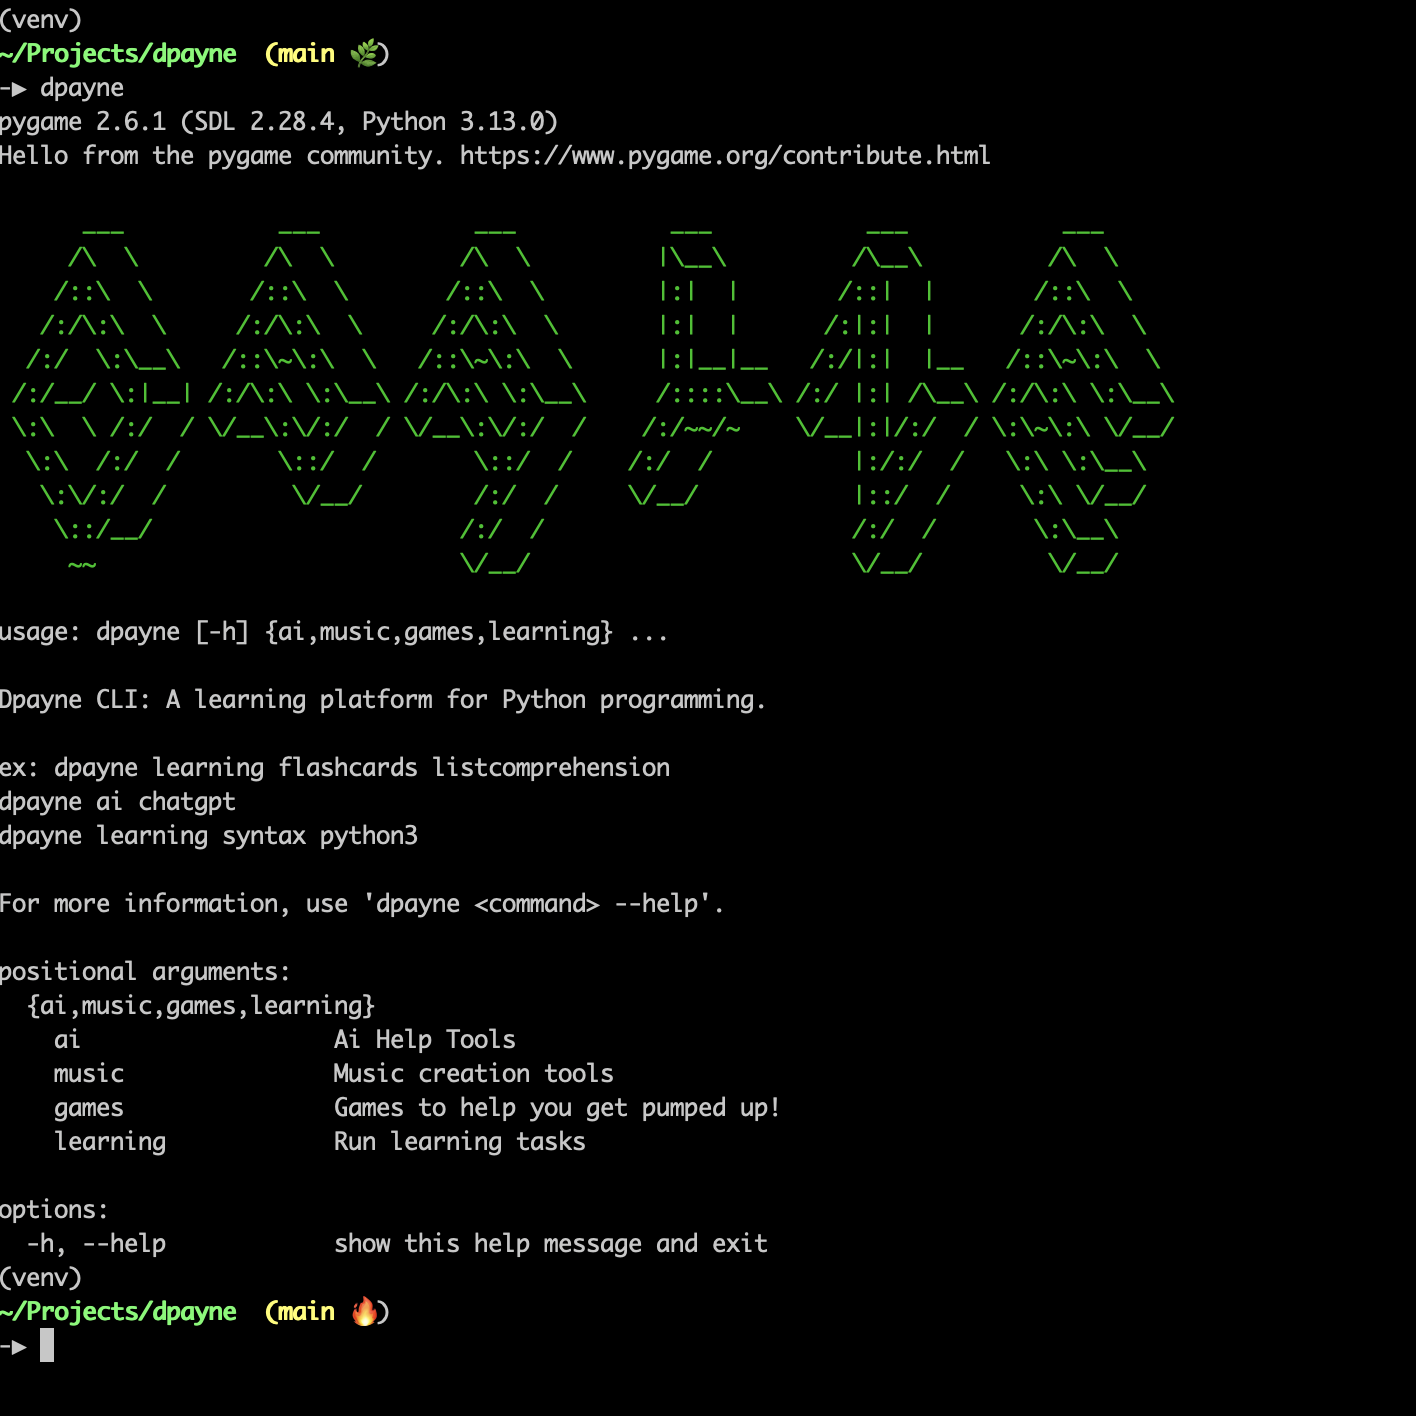
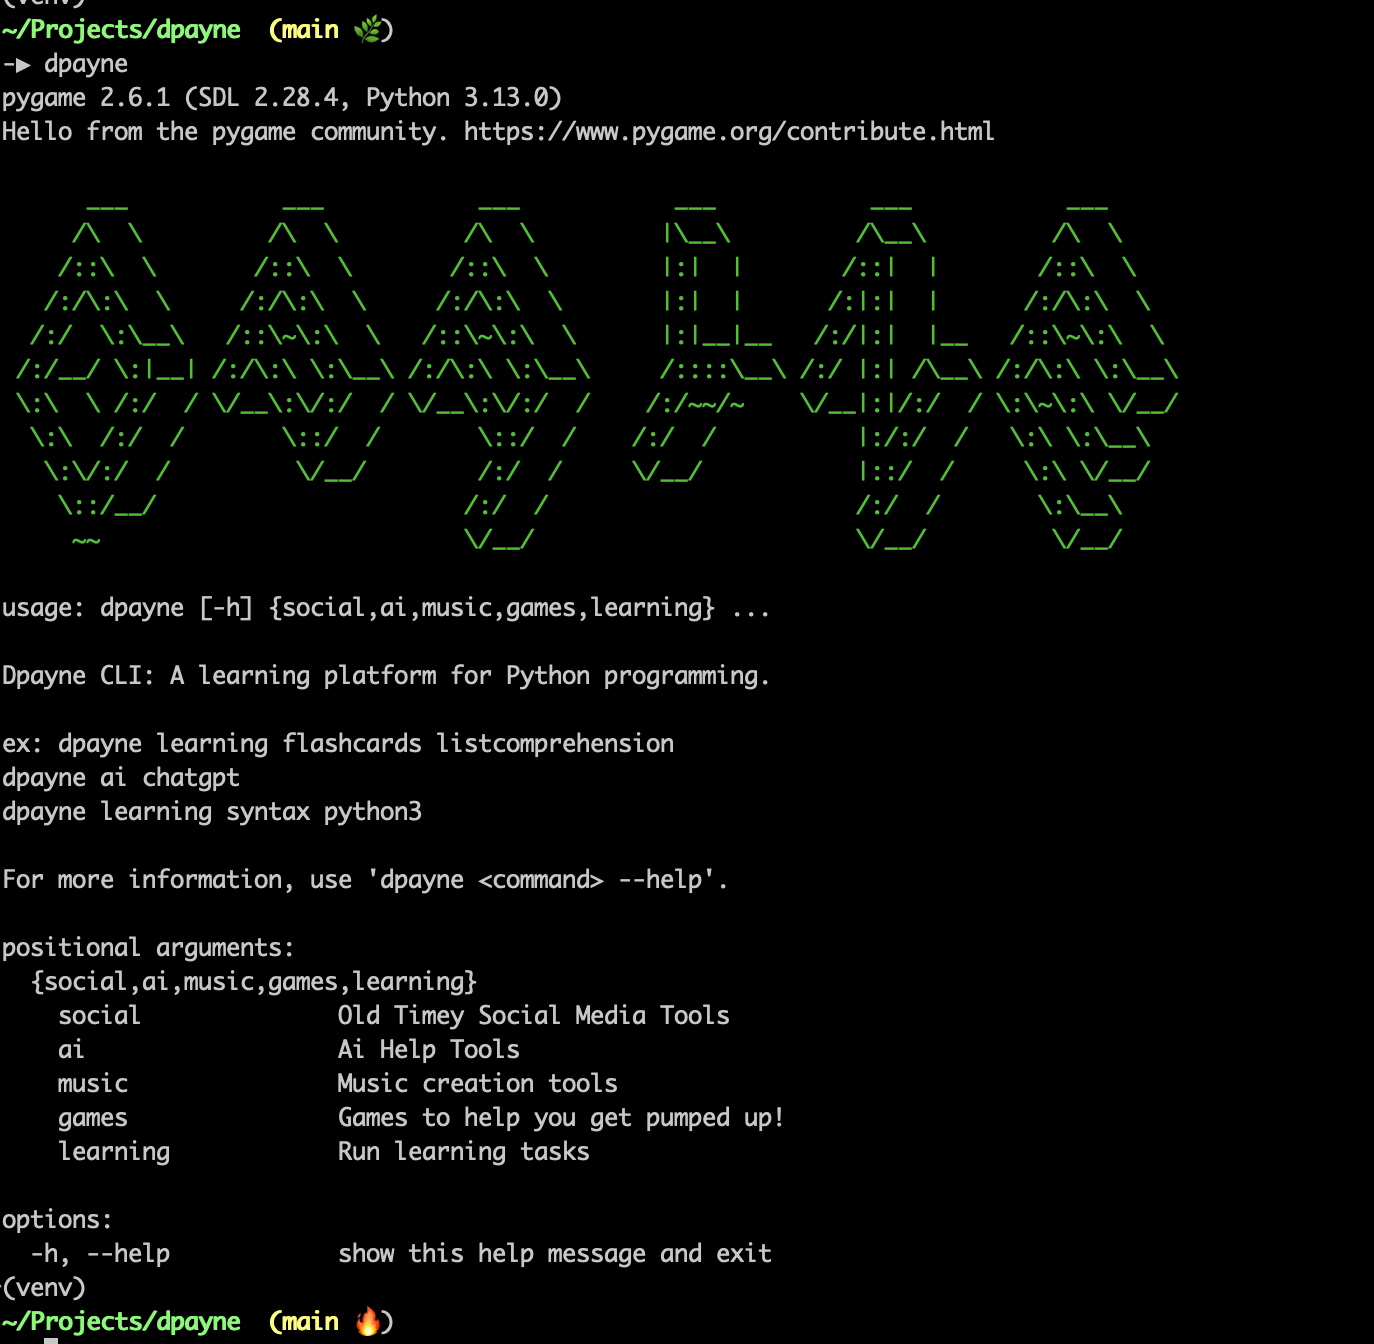
removed artifacts, updated help

diff --git a/dpayne/cli.py b/dpayne/cli.py
@@ -42,9 +42,9 @@ def main():
     )
     subparsers = parser.add_subparsers(dest="command")
 
-    social_parser = subparsers.add_parser("social", help="Ai Help Tools")
+    social_parser = subparsers.add_parser("social", help="Old Timey Social Media Tools")
     social_parser.add_argument(
-        "topic", choices=["bbs", "irc"], help="The music tools (e.g., drums)"
+        "topic", choices=["bbs", "irc"], help="old school communication device (e.g., radio)"
     )
 
     ai_parser = subparsers.add_parser("ai", help="Ai Help Tools")
@@ -93,7 +93,7 @@ def main():
             curses.wrapper(drums_main)
     elif args.command == "ai":
         if args.topic == "chatgpt":
-            converse_main()
+            converse_main() 
     elif args.command == "social":
         if args.topic == "bbs":
             bbs_main()
